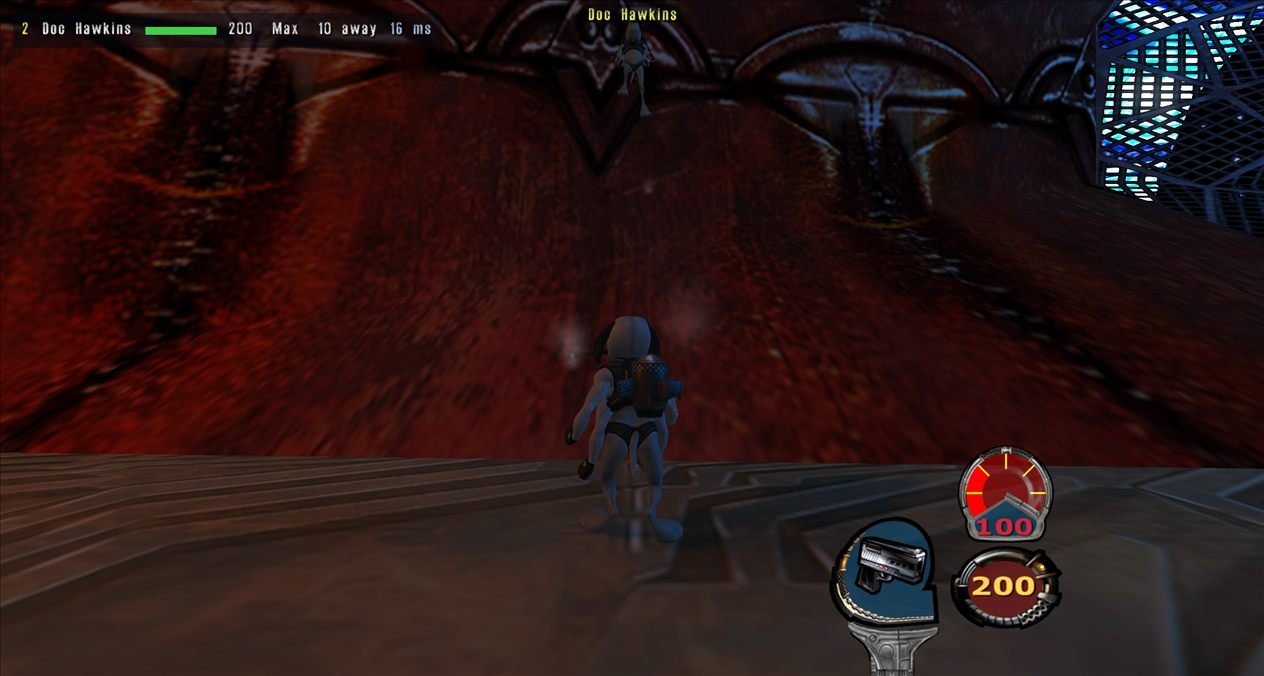
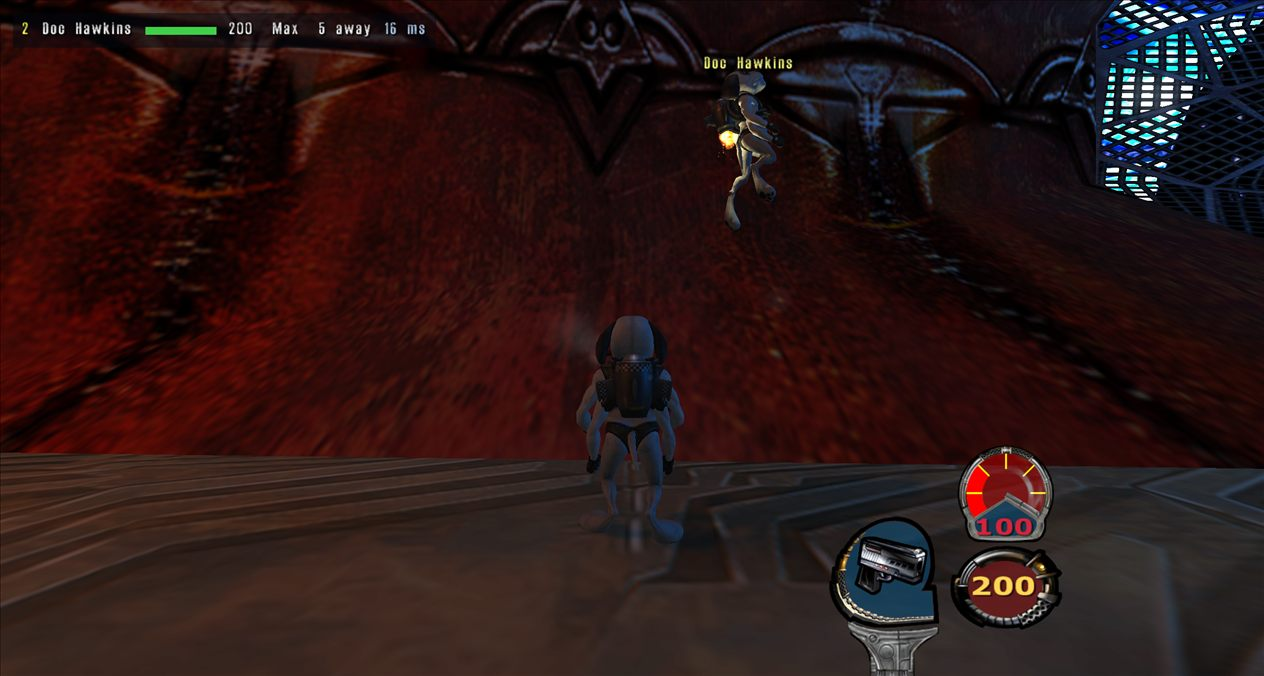
Showcase: the jetpack's flame and the leaf blower retaken on the fixed build
The teammate stands 3 units ahead and side on (the camera is about 3 units behind the
host); Max is held just above where he stood while he thrusts, so the flame shows. The canopy
could not be framed (the teammate ends above the frame or behind the ceiling) and has no
scene. coop_gobtree takes a raw flag (test mode) that dumps the gob, its model controller and
its +0x70 component, used to find the flame emitter.

diff --git a/bridge/presence_game.c b/bridge/presence_game.c
@@ -774,13 +774,15 @@ static void l_join_retry(void)
     joining.since = now_ms() / 1000;
 }
 
-/* coop_gobtree(key [, parent]): every live gob (or the children of `parent`) with its flags, scene parent, bone slot and
- * component kinds, to coop\\tree_<key>.txt. For finding what an effect or an attached visual is made of. */
+/* coop_gobtree(key [, parent [, raw]]): every live gob (or the children of `parent`) with its flags, scene parent, bone
+ * slot and component kinds, to coop\\tree_<key>.txt (raw: also the gob's first 0xb0 bytes, its model controller's and
+ * its +0x70 component's first 0x80). For finding what an effect or an attached visual is made of. */
 static void l_gobtree(void)
 {
     long len;
     const char *key = luaL_check_lstr(1, &len);
     BYTE *parent = tolua_getusertype(2, NULL);
+    int raw = (int)num_param(3);
     char path[MAX_PATH];
     FILE *f;
     int s;
@@ -799,6 +801,23 @@ static void l_gobtree(void)
                 gob_name(g)[0] ? gob_name(g) : "-", info ? gob_type(g) : -1, info ? gob_class(g) : -1,
                 *(WORD *)(g + GOB_FLAGS), (unsigned long)par, *(int *)(g + GOB_BONE_SLOT), c70 ? (int)*(DWORD *)c70 : -1,
                 *(float *)(g + GOB_POSITION), *(float *)(g + GOB_POSITION + 4), *(float *)(g + GOB_POSITION + 8));
+        if (raw) {
+            BYTE *ctl = *(BYTE **)(g + GOB_ANIM);
+            int b;
+            fputs("  gob", f);
+            for (b = 0; b < 0xb0; b += 4) fprintf(f, " %08lx", (unsigned long)*(DWORD *)(g + b));
+            fputc('\n', f);
+            if (ctl && !IsBadReadPtr(ctl, 0x80)) {
+                fputs("  ctl", f);
+                for (b = 0; b < 0x80; b += 4) fprintf(f, " %08lx", (unsigned long)*(DWORD *)(ctl + b));
+                fputc('\n', f);
+            }
+            if (c70 && !IsBadReadPtr(c70, 0x80)) {
+                fputs("  c70", f);
+                for (b = 0; b < 0x80; b += 4) fprintf(f, " %08lx", (unsigned long)*(DWORD *)(c70 + b));
+                fputc('\n', f);
+            }
+        }
     }
     fclose(f);
 }

diff --git a/docs/SHOWCASE.md b/docs/SHOWCASE.md
@@ -73,12 +73,14 @@ the animations your hero has and an "All..." list of the rest.
 
 ## Gear your friends carry
 
-What a player uses, the others see: Max's jetpack on his back, and Doc's leaf blower once he has taken it up.
-(Kurt's parachute is shared the same way; it has no picture here yet.)
+What a player uses, the others see: Max's jetpack on his back, its flame while he thrusts, and Doc's leaf blower once
+he has taken it up (the item on his back, the nozzle in his hands, the puffs while he blows). Each sits where the
+player's own game puts it. The icon over the host's head in the second picture is the host's own selected item in
+Doc's inventory, not part of the teammate. (Kurt's parachute is shared the same way; it has no picture here yet.)
 
 | Max's jetpack | Doc's leaf blower |
 |---|---|
-| ![Max with his jetpack, seen by the host](showcase/jetpack.jpg) | ![Doc with the leaf blower, seen by the host](showcase/leafblower.jpg) |
+| ![The other player's Max thrusting, the jetpack's flame under the pack, seen by the host](showcase/jetpack.jpg) | ![The other player's Doc side on, the leaf blower on his back and the nozzle in his hands, seen by the host](showcase/leafblower.jpg) |
 
 ## Cutscenes and minigames together
 
